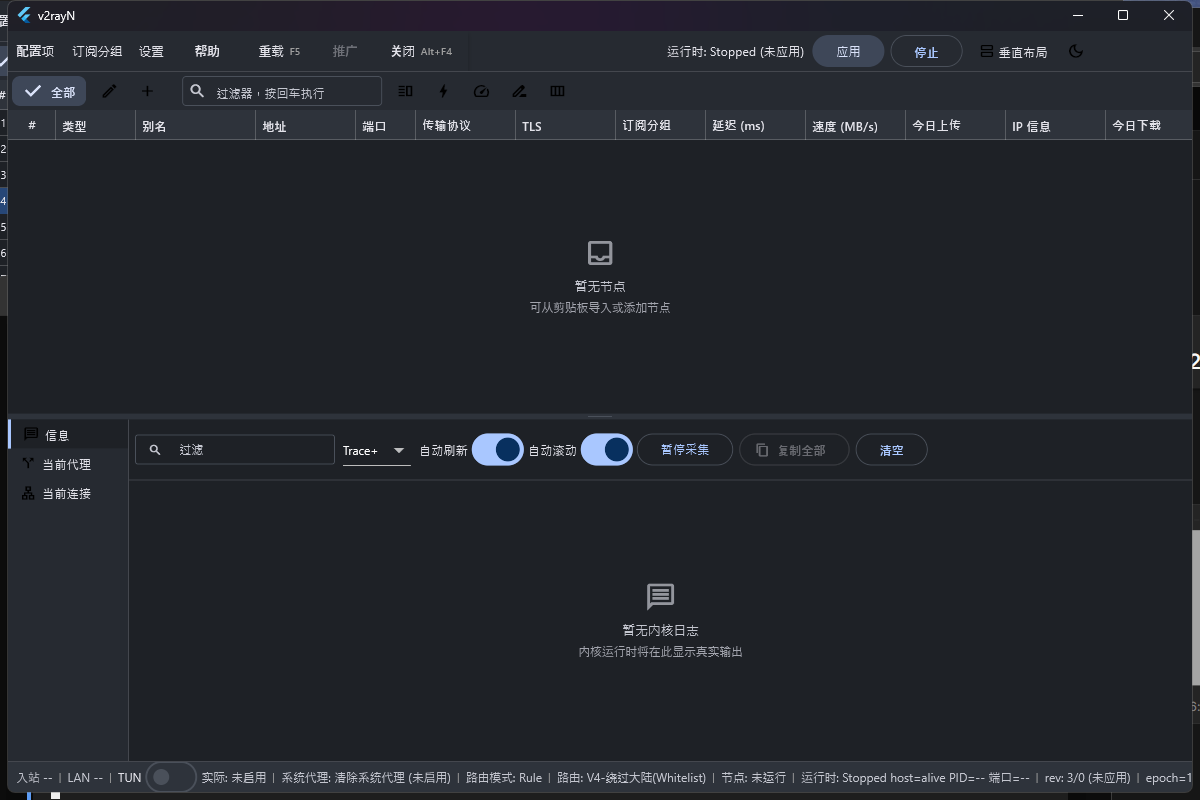
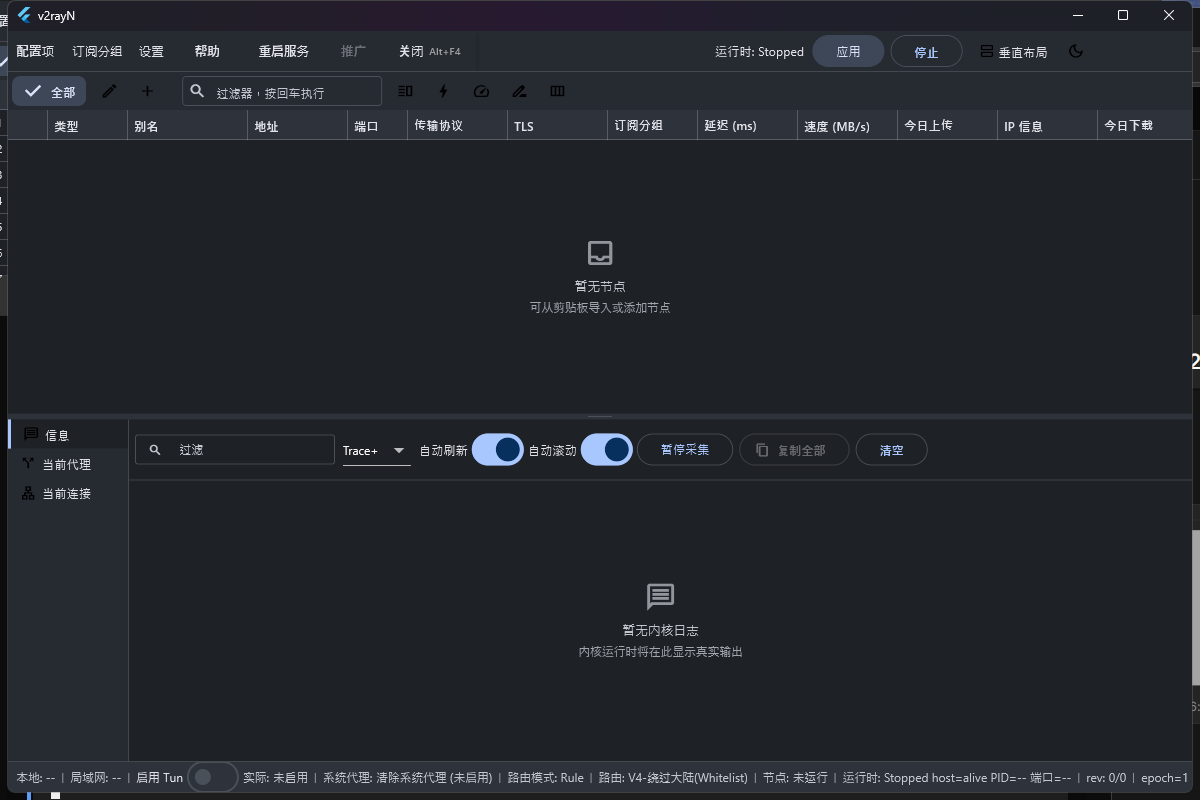
audit follow-up: layouts ledger updated (separator rendering landed), installer hash registered in SHA256SUMS, RC screenshots re-shot from final ff45519 package with resolved-diff summary

diff --git a/docs/evidence/recheck-fixes/R3-WPF-COMPARE/README.md b/docs/evidence/recheck-fixes/R3-WPF-COMPARE/README.md
@@ -120,3 +120,12 @@
 2. 立卡 `R3-WPF-Routing-Structure`（R1–R4）。
 3. 立卡 `R3-WPF-Main-Chrome`（M2/M3/M5/M8，确认 M1 主题与 M4 额外按钮取舍）。
 4. 后续如需逐事件对照，需稳定的 Light 证据运行与菜单逐项展开脚本；TUN/系统代理/内核效果按项目约束在隔离环境单独验收。
+
+## 8. Wave K 后重拍（最终包 ff45519）
+
+三张 RC 截图（`rc-main.png` / `rc-option.png` / `rc-routing.png`）已用最终包（build-info `git_commit=ff45519`、`git_dirty=false`、zip sha256 `d3b4a07a…`）经同一 `capture_rc.ps1` 隔离重拍；上表 O/R/M 差异中以下项已在 Wave K 修复（见 `R3-WPF-OPTION/`、`R3-WPF-ROUTING/`、`R3-WPF-MAIN-CHROME/`）：
+
+- 设置窗口：标题「设置」、五页 `Core: 基础设置 / v2rayN 设置 / 系统代理设置 / Tun 模式设置 / Core 类型设置`、`确定/取消`、无裸 key（`settings.saved` 已本地化）、补 `认证用户名/认证密码` 与 `默认 TLS 指纹`；KCP 标历史保留。
+- 路由窗口：`预定义规则集列表` 标题、顶部 `添加规则集/一键导入规则集`、列头 `别名/数量/排序/可选地址 (Url)/自定义图标`、去掉非上游 `状态` 列。
+- 主窗口：行头 40px 无 `#`、状态栏 `本地/局域网/启用 Tun`、根菜单分隔线（`main_shell.dart:614-619` 已渲染）、`重启服务` 命名。
+- 仍为有意增强（不回退）：M1 主题跟随系统、M4 `运行时 应用/停止`、M6 空态、M7 底部信息区；窗口形态（内嵌 dialog）登记 `R3-WPF-WINDOW-FORM`。
